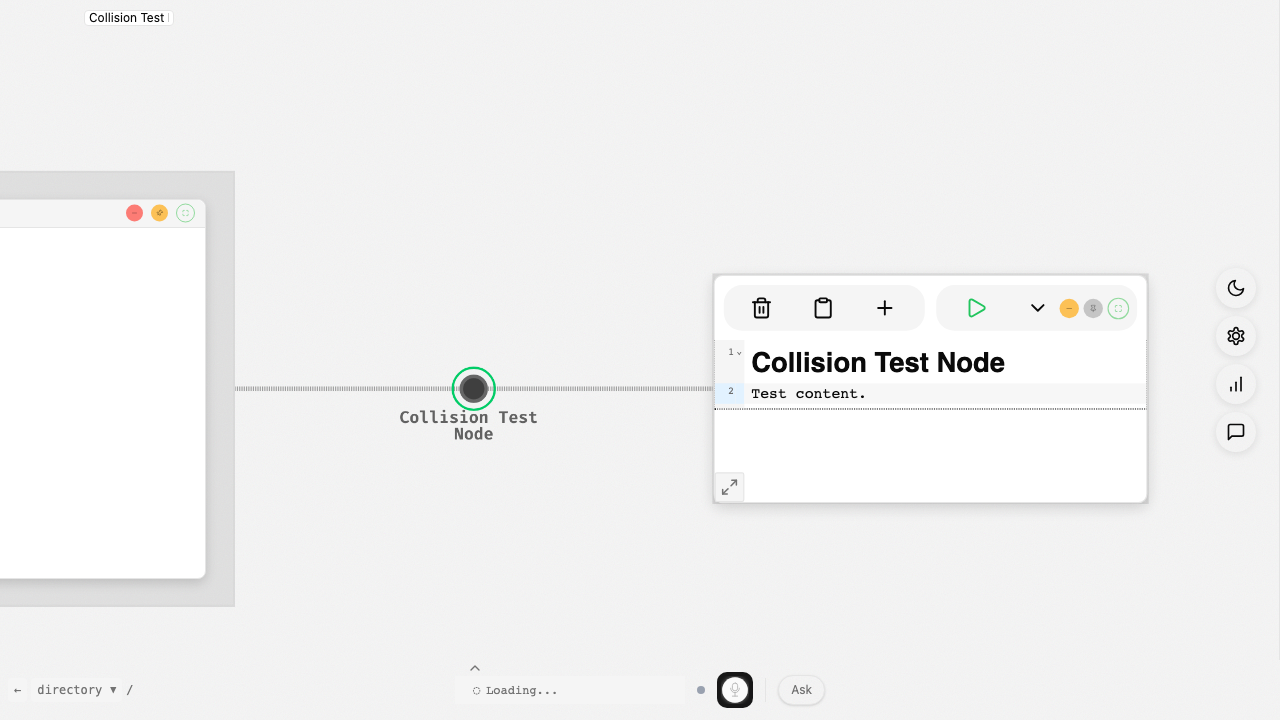
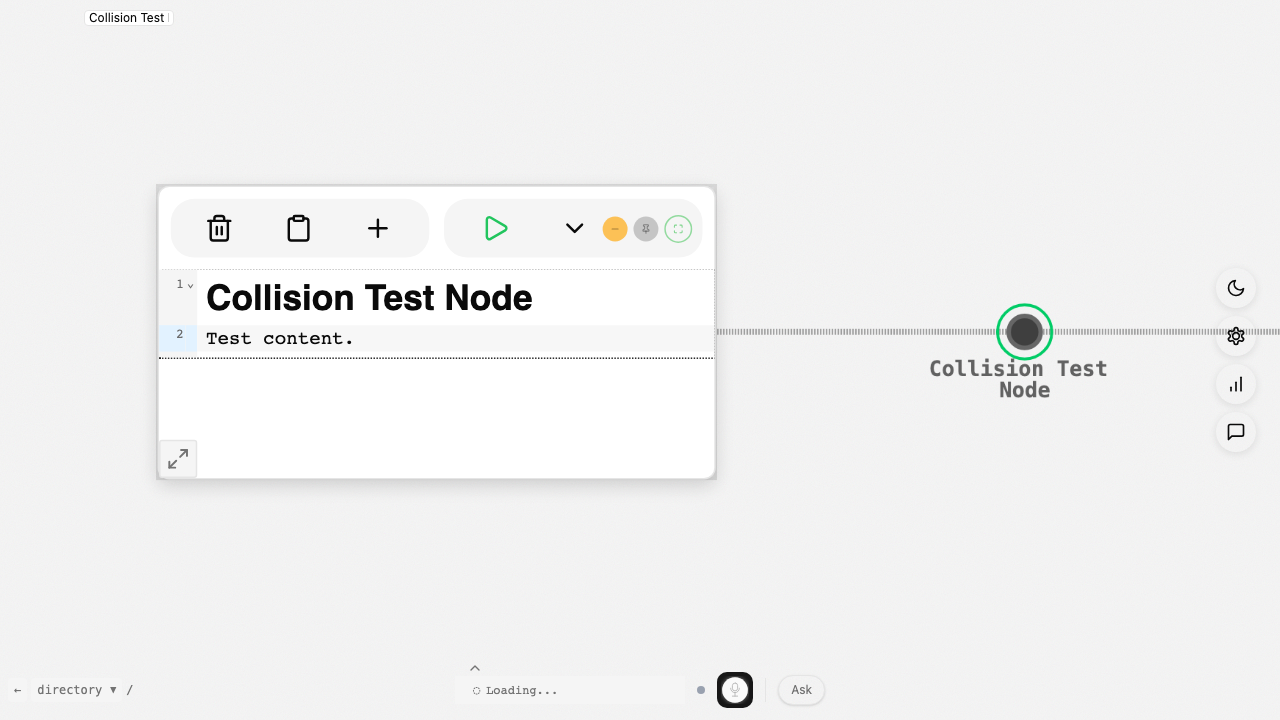
settings ui, new layout

diff --git a/webapp/src/shell/UI/App.tsx b/webapp/src/shell/UI/App.tsx
@@ -177,14 +177,11 @@ function App(): JSX.Element {
 
     // Render graph view
     return (
-        <div className="h-screen flex flex-col bg-background">
-            {/* Graph Section (fills all space, with bottom padding for fixed bottom bar) */}
-            <div className="flex-1 min-h-0 relative pb-14">
-                {/* Graph canvas - Cytoscape only */}
-                <div ref={graphContainerRef} className="h-full w-full"/>
-                {/* UI overlay container - sidebar, overlays, title bar, tabs */}
-                <div ref={uiContainerRef} className="absolute inset-0 pointer-events-none"/>
-            </div>
+        <div className="h-screen relative bg-background">
+            {/* Layer 1: Graph canvas - Cytoscape only, absolutely positioned so it never causes overflow */}
+            <div ref={graphContainerRef} className="absolute inset-0 pb-14"/>
+            {/* Layer 2: UI overlay - sidebar, overlays, title bar, tabs */}
+            <div ref={uiContainerRef} className="absolute inset-0 pb-14 pointer-events-none [&>*]:pointer-events-auto"/>
 
             {/* Bottom bar: Fixed to viewport bottom to prevent dropdown-induced layout shifts */}
             <div className="fixed bottom-0 left-0 right-0 z-[1050] py-1 bg-background">
